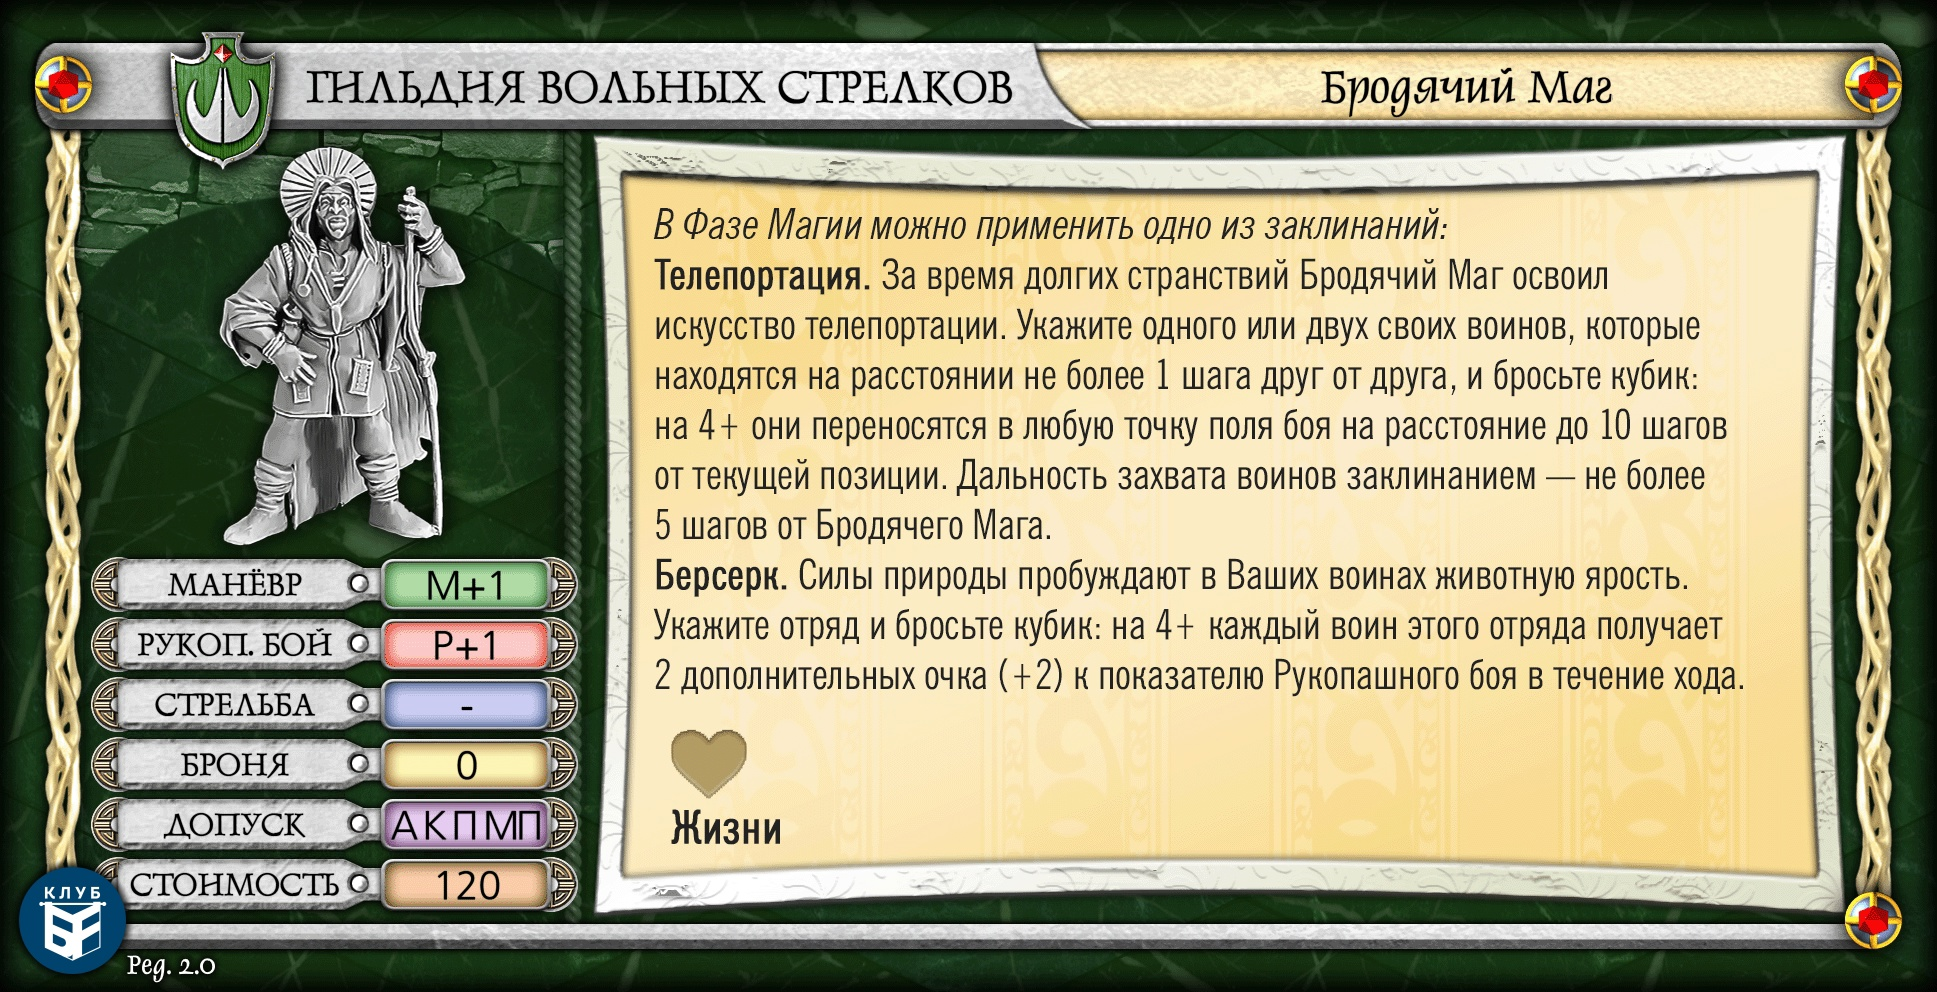
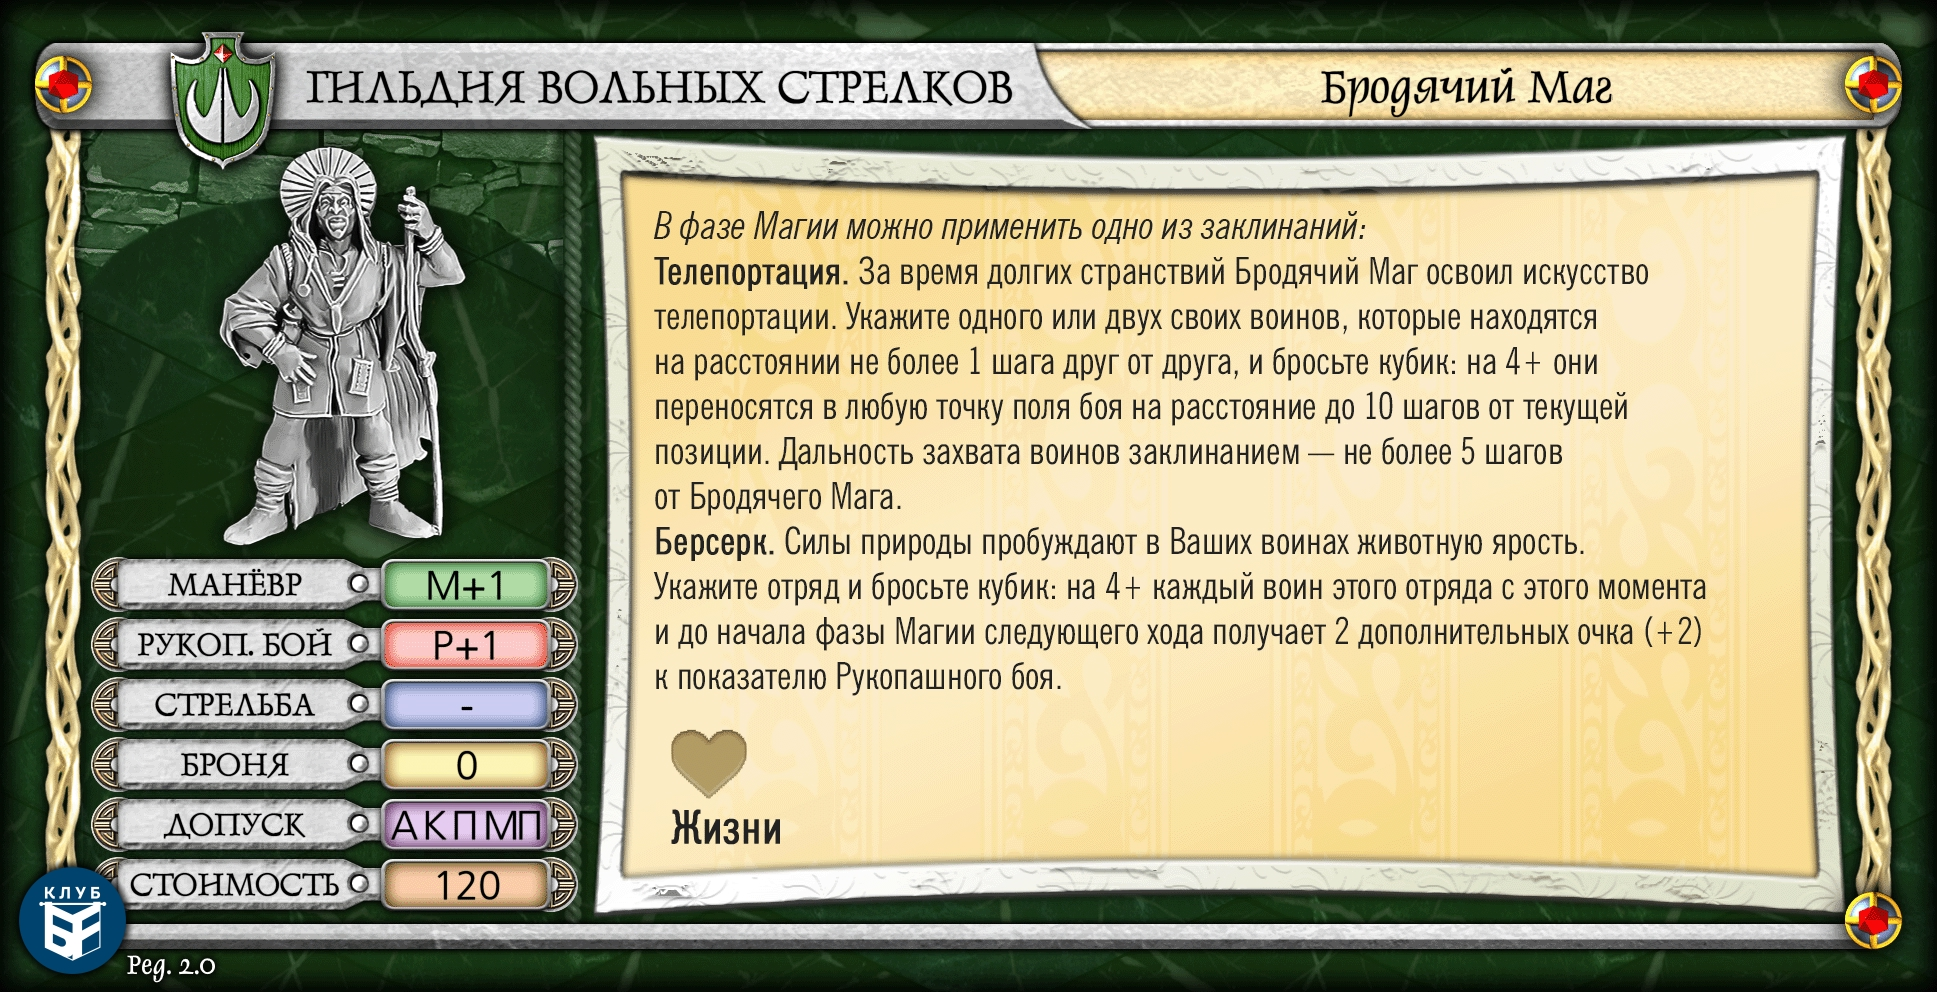
update rating

Changed region(s): [[0.3407, 0.1875, 0.8983, 0.7188]]

diff --git a/src/Data/localRating.js b/src/Data/localRating.js
@@ -259,7 +259,7 @@ export const localPlayers = [
   },
   {
     id: "Albert_Bashirov",
-    image: require("../images/photo_players/Albert_Bashirov.jpg"),
+    image: require("../images/photo_players/Albert_Bashirov.png"),
     player: "Альберт Баширов",
     achievements: [FourSPB1, ThreeMoscow1, ThreeSPB3, OneEkb3],
     games: 32, //Побед: 8
@@ -311,6 +311,38 @@ export const localPlayers = [
     achievements: [],
     games: 15, //Побед: 10
     win: 10,
+  },
+  {
+    id: "Gleb_Dobrohodov",
+    image: require("../images/avatar_gamers.png"),
+    player: "Глеб Доброходов",
+    achievements: [],
+    games: 3,
+    win: 1,
+  },
+  {
+    id: "Kozchemyaka_Sergeevic",
+    image: require("../images/avatar_gamers.png"),
+    player: "Кожемяка Сергеевич",
+    achievements: [],
+    games: 4,
+    win: 3,
+  },
+  {
+    id: "Svetlana_Djipsy",
+    image: require("../images/avatar_gamers.png"),
+    player: "Светлана Джипси",
+    achievements: [],
+    games: 3,
+    win: 1,
+  },
+  {
+    id: "Lev_Sinugin",
+    image: require("../images/avatar_gamers.png"),
+    player: "Лев Синюгин",
+    achievements: [],
+    games: 2,
+    win: 0,
   },
   {
     id: "Mikhail_Bezgans",
@@ -670,7 +702,7 @@ export const localPlayers = [
     image: require("../images/avatar_gamers.png"),
     player: "Георгий Матвеев",
     achievements: [],
-    games: 13, //Побед: 0
+    games: 15, //Побед: 0
     winrating: 0,
     win: 0,
   },
@@ -679,15 +711,15 @@ export const localPlayers = [
     image: require("../images/avatar_gamers.png"),
     player: "Вайпер Иммортал",
     achievements: [],
-    games: 6, //Побед: 0
-    win: 3,
+    games: 9, //Побед: 0
+    win: 4,
   },
   {
     id: "Maksim_Dobrohodov",
     image: require("../images/avatar_gamers.png"),
     player: "Максим Доброходов",
     achievements: [],
-    games: 3,
+    games: 5,
     winrating: 0,
     win: 0,
   },

diff --git a/src/pages/ratingPage/ratingPage.jsx b/src/pages/ratingPage/ratingPage.jsx
@@ -72,7 +72,10 @@ export function RatingPage() {
           ))}
         </ul>
         <div className="rating__footer">
-          <span>Описание: {hoveredAchievement || defaultFooterText}</span>
+          <div>
+            <span className="rating__footer__description">Описание:</span>{" "}
+            {hoveredAchievement || defaultFooterText}
+          </div>
           <a
             target="blank"
             className="rating__footer__button"

diff --git a/src/pages/unitPage/Unitspage.scss b/src/pages/unitPage/Unitspage.scss
@@ -4,6 +4,7 @@
   @include flex-start;
   gap: 20px;
   margin-top: 90px;
+  margin-bottom: 35px;
   font-weight: 500;
   min-height: calc(100vh - 230px);
   &__list {
